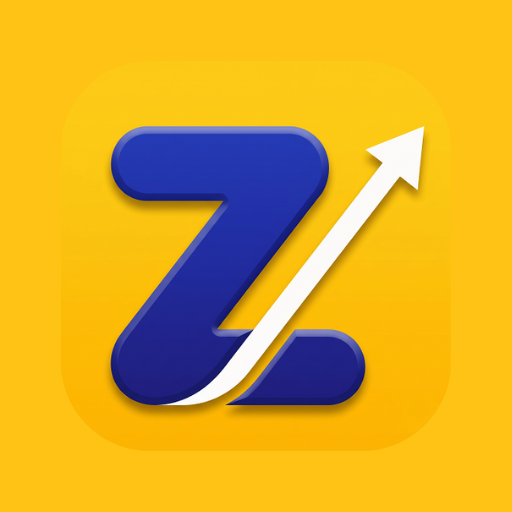
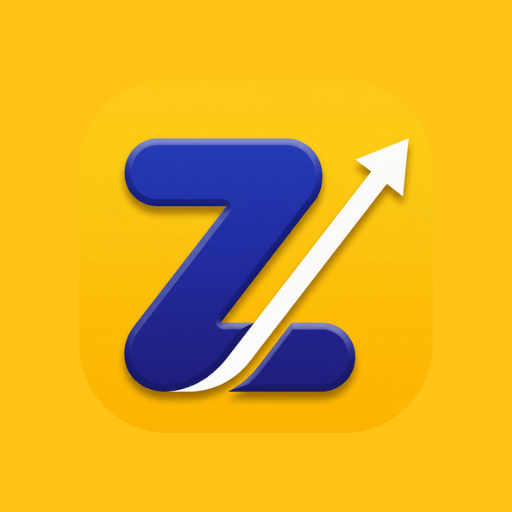
feat: add OTP clipboard auto-detection
- Implement automatic OTP extraction from clipboard when in the OTP entry view
- Add auto-focus for OTP input fields
- Update project assets

diff --git a/src/components/AuthModal.tsx b/src/components/AuthModal.tsx
@@ -166,11 +166,55 @@ export default function AuthModal({ isOpen, onClose, onSuccess, initialView, ini
     };
   }, [isOpen, view]);
 
+  // Auto-Focus on OTP View Entry
+  useEffect(() => {
+    if (view === 'otp-entry') {
+      const t = setTimeout(() => {
+        otpInputRef.current?.focus();
+      }, 150);
+      return () => clearTimeout(t);
+    }
+  }, [view]);
+
+  // Native Smart Clipboard Auto-Detector (Notification "Copy OTP" Sync)
+  const lastPastedRef = useRef<string>('');
+
+  const checkClipboardForOtp = async () => {
+    if (view !== 'otp-entry' || loading) return;
+    try {
+      if (typeof navigator !== 'undefined' && navigator.clipboard && navigator.clipboard.readText) {
+        const clipText = await navigator.clipboard.readText();
+        const match = clipText.match(/\b\d{6}\b/);
+        if (match && match[0] && match[0] !== lastPastedRef.current) {
+          lastPastedRef.current = match[0];
+          setOtpCode(match[0]);
+          handleVerifyOTP(undefined, match[0]);
+        }
+      }
+    } catch (_) {}
+  };
+
+  useEffect(() => {
+    if (view !== 'otp-entry') return;
+    const handleVisibilityChange = () => {
+      if (document.visibilityState === 'visible') {
+        checkClipboardForOtp();
+      }
+    };
+    window.addEventListener('focus', checkClipboardForOtp);
+    document.addEventListener('visibilitychange', handleVisibilityChange);
+    return () => {
+      window.removeEventListener('focus', checkClipboardForOtp);
+      document.removeEventListener('visibilitychange', handleVisibilityChange);
+    };
+  }, [view]);
+
   // Clean form state upon open or close without clearing the initialized RecaptchaVerifier
   const resetForm = () => {
     setView(getInitialView());
     setPhoneNumber('');
     setOtpCode('');
+    lastPastedRef.current = '';
     setDisplayName(initialData?.displayName || '');
     setEmail(initialData?.email || '');
     setError(null);
@@ -836,6 +880,16 @@ export default function AuthModal({ isOpen, onClose, onSuccess, initialView, ini
                         );
                       })}
                     </div>
+                  </div>
+
+                  <div className="flex justify-center pt-1">
+                    <button
+                      type="button"
+                      onClick={checkClipboardForOtp}
+                      className="inline-flex items-center gap-1.5 text-[11px] font-bold text-blue-700 bg-blue-50 hover:bg-blue-100 border border-blue-200/80 px-3 py-1 rounded-full transition-all cursor-pointer active:scale-95"
+                    >
+                      <span>📋 Paste OTP from SMS</span>
+                    </button>
                   </div>
 
                   {error && (
